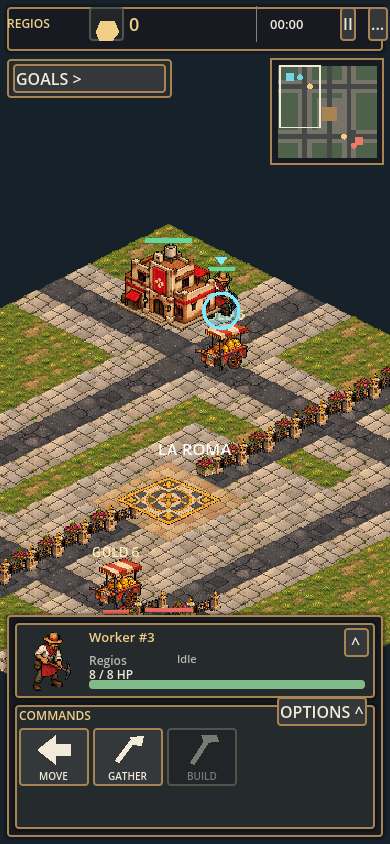
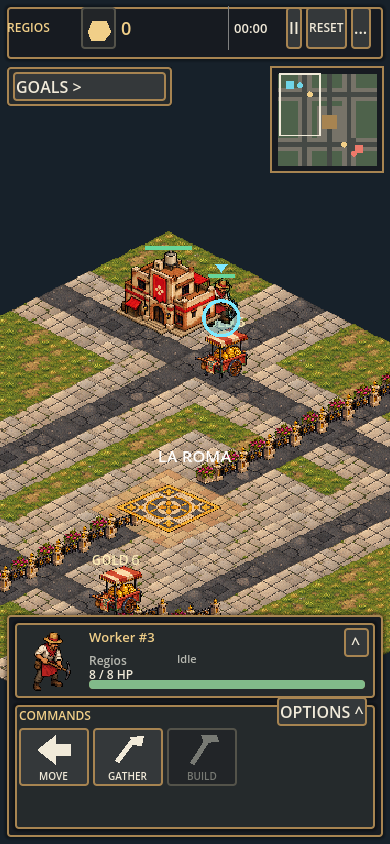
Scale gameplay HUD with desktop window and add reset control

diff --git a/game/README.md b/game/README.md
@@ -17,7 +17,7 @@ GODOT_BIN="$GODOT_BIN" npm run skirmish:contract
 "$GODOT_BIN" --path game
 ```
 
-Hover a friendly unit or building for a gold outline and selection hint, then click its visible sprite or ground tile. Shift-click or drag selects a group; click a group portrait to focus one member. The selected unit has a cyan outline, ground ring and marker. The compact top HUD shows the real gold stockpile, faction and clock. The bottom HUD shows the selected sprite, health, activity, available icon commands, and contextual construction or recruitment cards. The collapsible objective widget, event notifications and clickable minimap keep strategic state accessible. Pause and **Menu** sit at the top right; the menu holds alpha invite, sync, event log and support controls. Choose Move, Gather, Build or Attack, then click the board target; **Esc** or Cancel leaves targeting. Unavailable orders show their cost or blocking reason. Right-click remains a direct move, gold-gather or enemy-attack command, and the input maps visible sprites back to the original simulation tile or entity ID. Poblanos use blue art and Regios use red art, whichever faction you choose. The stockpile starts at 0; Regios workers deliver five gold per trip and Poblanos workers deliver four. At 6 or more stockpile, select a worker and press **B**, then click a clear 2×2 area outside La Roma to build the recruitment post. Select the command post and press **1** to queue a worker. Select a completed recruitment post and press **2** or **3** to queue melee or ranged. Resizing a desktop window zooms the battlefield to fit; **+**/**-** or the mouse wheel add manual zoom, and **0** fits the current window again. **G** toggles fullscreen. **R** returns to faction choice with a new match ID after selection; **F** retries local event sync. The computer gathers, builds, recruits a mixed group, contests the district, and can attack your command post. The same commands appear in desktop, mobile landscape and portrait layouts; touch taps use Godot's mouse emulation.
+Hover a friendly unit or building for a gold outline and selection hint, then click its visible sprite or ground tile. Shift-click or drag selects a group; click a group portrait to focus one member. The selected unit has a cyan outline, ground ring and marker. The compact top HUD shows the real gold stockpile, faction and clock. The bottom HUD shows the selected sprite, health, activity, available icon commands, and contextual construction or recruitment cards. The collapsible objective widget, event notifications and clickable minimap keep strategic state accessible. Pause, **Reset**, and **Menu** sit at the top right; Reset asks for confirmation before starting a fresh match as the same faction, while Menu holds alpha invite, sync, event log and support controls. Choose Move, Gather, Build or Attack, then click the board target; **Esc** or Cancel leaves targeting. Unavailable orders show their cost or blocking reason. Right-click remains a direct move, gold-gather or enemy-attack command, and the input maps visible sprites back to the original simulation tile or entity ID. Poblanos use blue art and Regios use red art, whichever faction you choose. The stockpile starts at 0; Regios workers deliver five gold per trip and Poblanos workers deliver four. At 6 or more stockpile, select a worker and press **B**, then click a clear 2×2 area outside La Roma to build the recruitment post. Select the command post and press **1** to queue a worker. Select a completed recruitment post and press **2** or **3** to queue melee or ranged. Resizing a desktop window scales both the battlefield and HUD to fit; **+**/**-** or the mouse wheel add manual board zoom, and **0** fits the current window again. **G** toggles fullscreen. **R** returns to faction choice with a new match ID after selection; **F** retries local event sync. The computer gathers, builds, recruits a mixed group, contests the district, and can attack your command post. The same commands appear in desktop, mobile landscape and portrait layouts; touch taps use Godot's mouse emulation.
 
 The [HUD implementation notes](../docs/art/ui-component-spec.md) and [four screenshots](../docs/screenshots/readable-hud/README.md) compare the playable interface with the approved concept. To build a local Web export, install the Godot 4.7.2 Web template and run `"$GODOT_BIN" --headless --path game --export-release Web /absolute/path/game.html`; serve the generated HTML, JavaScript, WASM and PCK from one directory. The Web export is a compatibility check, separate from the signed macOS Restricted preview.
 

diff --git a/docs/art/ui-component-spec.md b/docs/art/ui-component-spec.md
@@ -12,7 +12,7 @@ The approved [HUD reference](../../references/04a1d5324f0edb9c8e41f5a474ec3f4925
 | HudSkin | `game/ui/hud_skin.gd` | Shared charcoal, bronze, gold and faction neutral control styling. |
 | SkirmishMain | `game/skirmish_main.gd` | Translates player input into the existing `sim.issue()` route, and projects simulation and outbox state into the HUD. |
 
-The top bar currently shows **gold**, faction, match time, pause and the support menu. The bottom bar shows the selected sprite, health, real stats/activity, available icon commands, building or recruitment card, and the supported production queue. Shift-click or drag selects a group; its portrait grid can select one member. The secondary mobile drawer exposes the same contextual options. A collapsible objective widget shows district state and hold progress. Notifications keep recent events in the support menu's event log. The minimap pans the existing board camera; there is no separate map simulation.
+The top bar currently shows **gold**, faction, match time, pause, a confirmed same-faction Reset action and the support menu. The bottom bar shows the selected sprite, health, real stats/activity, available icon commands, building or recruitment card, and the supported production queue. Shift-click or drag selects a group; its portrait grid can select one member. The secondary mobile drawer exposes the same contextual options. A collapsible objective widget shows district state and hold progress. Notifications keep recent events in the support menu's event log. The minimap pans the existing board camera; there is no separate map simulation.
 
 Command metadata defines display names, icon roles, shortcuts and tooltips in one place. The availability projection checks the current selected actors, gold and production state. The simulation validates the final order. Board right-click, shortcuts and UI buttons share that command path. Build placement has a live valid/invalid preview and Escape cancels targeting.
 
@@ -20,6 +20,6 @@ The current playable rules have one gold stockpile, worker/melee/ranged units, a
 
 ## Input and layouts
 
-Desktop keeps the selection, commands and context regions persistent, with a minimap at the upper right. Resizing a desktop window scales the battlefield to the available viewport while controls reflow; wheel/key zoom is preserved across later resizes and **0** fits the current window. At 844×390 the bottom bar retains 58 pixel command targets and a compact selection panel. At 390×844 it stacks selection and commands and opens context through **Options**. Objectives collapse on mobile. Godot mouse-from-touch emulation is enabled so touch taps use the same board and command handlers. Hover tooltips are supplemental: disabled building cost or reason is also printed in the context panel. Selection, command activation, cancellation, minimap clicks, pause, diagnostics, resize zoom and bounds are covered by the client test.
+Desktop keeps the selection, commands and context regions persistent, with a minimap at the upper right. Resizing a desktop window scales both battlefield and HUD to the available viewport; the HUD uses one bounded canvas scale for its real controls, while mobile keeps its separate compact layout. Wheel/key board zoom is preserved across later resizes and **0** fits the current window. At 844×390 the bottom bar retains 58 pixel command targets and a compact selection panel. At 390×844 it stacks selection and commands and opens context through **Options**. Objectives collapse on mobile. Godot mouse-from-touch emulation is enabled so touch taps use the same board and command handlers. Hover tooltips are supplemental: disabled building cost or reason is also printed in the context panel. Selection, command activation, cancellation, minimap clicks, pause, reset confirmation, diagnostics, resize zoom and bounds are covered by the client test.
 
 The icon shapes and panel decoration are original Godot drawing and style resources, with no imported icon pack. Selection and building portraits reuse the existing project sprites. The reference JPG is an internal, user-provided visual direction and is never shipped as a runtime texture.

diff --git a/Roadmap/02-civilizations-and-world/readable-battlefield-hud/sprint-3.md b/Roadmap/02-civilizations-and-world/readable-battlefield-hud/sprint-3.md
@@ -28,6 +28,7 @@ Replace the alpha's three prose-heavy panels with a responsive top bar and conte
 
 - Godot rules/client, Node, art manifest and event contract checks passed. The signed macOS export from merged `1d1349249f14` passed strict signature verification and started locally.
 - The resize-zoom follow-up merged as `4827e70dc52a`. Its client test and project CI passed; native and Web desktop resize captures were inspected. The replacement signed preview passed export and local startup checks.
+- The HUD scale and Reset follow-up makes the top and bottom controls grow with desktop window size. Reset opens a confirmation, pauses the simulation while open, and begins a new match with the same faction and a fresh match ID. The client suite covers scaled viewport bounds and reset/cancel behavior; native captures at all four target sizes and a live Web resize and Reset click were inspected.
 - Desktop and mobile viewport captures are linked in the screenshot README. The Web release export rendered in Chrome at desktop and 390×844; a mobile touch tap selected a worker.
 - [Downloaded-build walkthrough](../../../docs/alpha-local-qa.md) and two uncoached reviewer playthroughs remain owner evidence.
 
@@ -36,5 +37,5 @@ Replace the alpha's three prose-heavy panels with a responsive top bar and conte
 1. Start `skirmish_main.tscn`, choose Regios and select a worker. Confirm the top gold counter, sprite portrait, HP and Move/Gather/Build icons. Build starts disabled at zero gold with its reason in the construction area.
 2. Click Gather, then the friendly cart. Confirm the worker's existing order and gold counter update after delivery. Re-select the worker, choose Build and inspect valid/invalid placement colors; Escape cancels.
 3. Select the command post, recruit a worker and confirm queue and gold changes. Select a fighter, then shift-click another and tap a group portrait to select one member. Only shared legal commands should appear for a group.
-4. Click two minimap locations and confirm the battlefield camera moves. Collapse/expand Objectives, pause/resume, and open **...** for invite, support and event history.
-5. Resize a desktop window smaller and larger; confirm the battlefield zooms while the HUD reflows. Add wheel/key zoom, resize again, then press **0** to fit the new size. Repeat at 1536×960, 1920×1080, 844×390 and 390×844. In portrait, use **Options** to reveal context. Compare the resulting screenshots to the approved reference and record clipped or unclear elements.
+4. Click two minimap locations and confirm the battlefield camera moves. Collapse/expand Objectives, pause/resume, and open **...** for invite, support and event history. Press **Reset**, cancel once, then confirm; the new match should keep the faction and restart the clock. **R** still opens faction choice.
+5. Resize a desktop window smaller and larger; confirm both the battlefield and top/bottom HUD scale. Add wheel/key board zoom, resize again, then press **0** to fit the new size. Repeat at 1536×960, 1920×1080, 844×390 and 390×844. In portrait, use **Options** to reveal context. Compare the resulting screenshots to the approved reference and record clipped or unclear elements.

diff --git a/docs/screenshots/readable-hud/README.md b/docs/screenshots/readable-hud/README.md
@@ -11,4 +11,6 @@ Approved [visual direction](../../../references/04a1d5324f0edb9c8e41f5a474ec3f49
 
 The reference shows a mature army and economy; this solo scenario supports one gold resource and fewer commands. The delivered HUD follows its top/field/bottom hierarchy and charcoal/bronze style without presenting the reference's unsupported systems as playable. The desktop panels have some open space when only one to three legal actions exist. The current game art has no dedicated painted portrait set, so entity sprites are used as portraits. The mobile board is navigated through the minimap; gesture pan and pinch zoom are future improvements.
 
+These captures include the proportional desktop HUD scale and visible **Reset** control. Reset opens an in-game confirmation and starts a new match with the same faction; **R** still returns to faction choice.
+
 To reproduce a capture from the repository root, set `HUD_CAPTURE_PATH` to an absolute output path, `HUD_CAPTURE_MODE` to `worker` or `building`, and run Godot with `--path game --rendering-driver opengl3 --resolution WIDTHxHEIGHT --script res://tests/hud_capture.gd`. The script uses an isolated test outbox and disables AI before saving the root viewport image.
